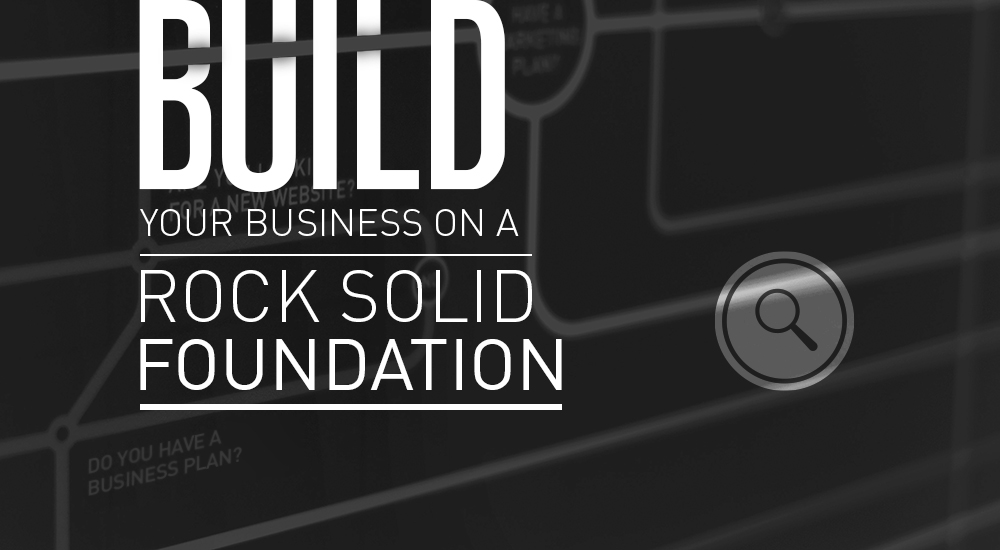
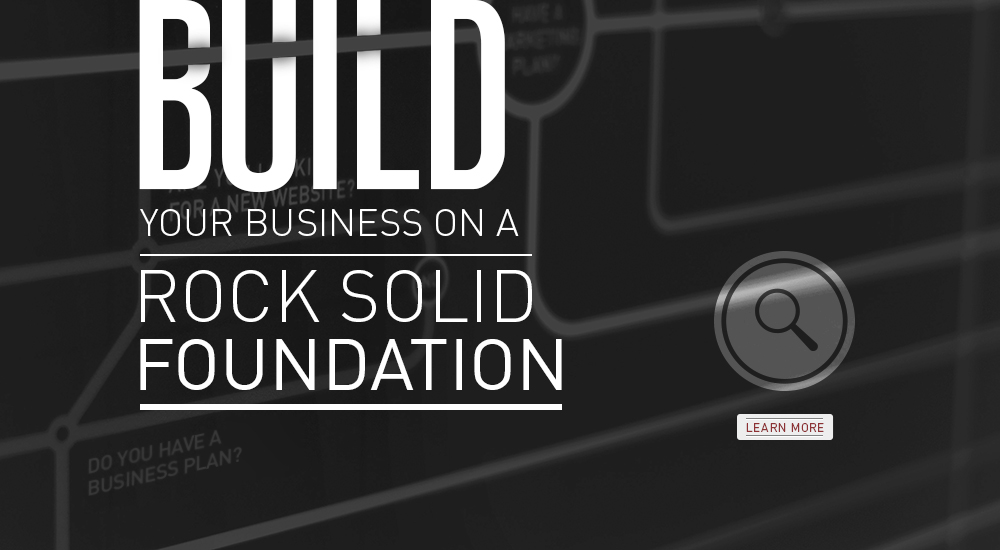
Some updates on the slider -- Finished 1 hour

Changed region(s): [[0.713, 0.7418, 0.837, 0.8036], [0.713, 0.5255, 0.744, 0.5564]]

diff --git a/BusinessonThemeStreet/function.js b/BusinessonThemeStreet/function.js
@@ -76,7 +76,7 @@ $(document).ready(function(){
 							}
 							if ($(".contact-slide").css("width") == "1000px"){
 								$(".contact-slide").css({'left':'1000px'});
-								$(".contact-page-slide").css({'z-index':'4000'});
+								$(".contact-page-slide").css({'z-index':'3000'});
 							}
 						});
 					});
@@ -122,7 +122,7 @@ if (this.id == "activator-2") {
 					}
 					if ($(".contact-slide").css("width") == "1000px"){
 						$(".contact-slide").css({'left':'1000px'});
-						$(".contact-page-slide").css({'z-index':'4000'});
+						$(".contact-page-slide").css({'z-index':'3000'});
 					}
 				});
 			});
@@ -168,7 +168,7 @@ if (this.id == "activator-3") {
 					}
 					if ($(".contact-slide").css("width") == "1000px"){
 						$(".contact-slide").css({'left':'1000px'});
-						$(".contact-page-slide").css({'z-index':'4000'});
+						$(".contact-page-slide").css({'z-index':'3000'});
 					}
 				});
 			});
@@ -214,7 +214,7 @@ if (this.id == "activator-4") {
 					}
 					if ($(".contact-slide").css("width") == "1000px"){
 						$(".contact-slide").css({'left':'1000px'});
-						$(".contact-page-slide").css({'z-index':'4000'});
+						$(".contact-page-slide").css({'z-index':'3000'});
 					}
 				});
 			});
@@ -260,7 +260,7 @@ if (this.id == "activator-5") {
 					}
 					if ($(".contact-slide").css("width") == "1000px"){
 						$(".contact-slide").css({'left':'1000px'});
-						$(".contact-page-slide").css({'z-index':'4000'});
+						$(".contact-page-slide").css({'z-index':'3000'});
 					}
 				});
 			});
@@ -277,6 +277,7 @@ if (this.id == "activator-6") {
 		},200);
 	}
 	else {
+		$(".contact-page-slide").css({'z-index':'4000'});
 		slide.animate({'left':'0px'},200,function(){
 			if ($(".slide-1-div").css("width") == '1000px'){
 				$(".slide-1-div").css({'width':'160px','left':'0px'});

diff --git a/BusinessonThemeStreet/style.css b/BusinessonThemeStreet/style.css
@@ -1687,7 +1687,7 @@ color:#7e1619;
 }
 
 .contact-slide{
-    background: url("images/contact-slider-bg.png");
+    background: url("images/contact-slider-bg.jpg");
     width: 1000px;
     height: 548px;
     left:1000px;

diff --git a/BusinessonThemeStreet/index.php b/BusinessonThemeStreet/index.php
@@ -10,19 +10,19 @@
 				</ul>
 			</div>
 			<div class="slide-div slide-1-div">
-				<img id="active-1" class="slideImg" src="<?php echo get_template_directory_uri(); ?>/images/slide-1-active.jpg">
+				<img id="active-1" name="slide1" class="slideImg" src="<?php echo get_template_directory_uri(); ?>/images/slide-1-active.jpg" onMouseOver="slide1.src='<?php echo get_template_directory_uri(); ?>/images/slide-1-hover.jpg'" onMouseOut="slide1.src='<?php echo get_template_directory_uri(); ?>/images/slide-1-active.jpg'">
 			</div>
 			<div class="slide-div slide-2-div">
-				<img id="active-2" class="slideImg" src="<?php echo get_template_directory_uri(); ?>/images/slide-2-active.jpg">
+				<img id="active-2" name="slide2" class="slideImg" src="<?php echo get_template_directory_uri(); ?>/images/slide-2-active.jpg" onMouseOver="slide2.src='<?php echo get_template_directory_uri(); ?>/images/slide-2-hover.jpg'" onMouseOut="slide2.src='<?php echo get_template_directory_uri(); ?>/images/slide-2-active.jpg'">
 			</div>
 			<div class="slide-div slide-3-div">
-				<img id="active-3" class="slideImg" src="<?php echo get_template_directory_uri(); ?>/images/slide-3-active.jpg">
+				<img id="active-3" name="slide3" class="slideImg" src="<?php echo get_template_directory_uri(); ?>/images/slide-3-active.jpg" onMouseOver="slide3.src='<?php echo get_template_directory_uri(); ?>/images/slide-3-hover.jpg'" onMouseOut="slide3.src='<?php echo get_template_directory_uri(); ?>/images/slide-3-active.jpg'">
 			</div>
 			<div class="slide-div slide-4-div">
-				<img id="active-4" class="slideImg" src="<?php echo get_template_directory_uri(); ?>/images/slide-4-active.jpg">
+				<img id="active-4" name="slide4" class="slideImg" src="<?php echo get_template_directory_uri(); ?>/images/slide-4-active.jpg" onMouseOver="slide4.src='<?php echo get_template_directory_uri(); ?>/images/slide-4-hover.jpg'" onMouseOut="slide4.src='<?php echo get_template_directory_uri(); ?>/images/slide-4-active.jpg'">
 			</div>
 			<div class="slide-div slide-5-div">
-				<img id="active-5" class="slideImg" src="<?php echo get_template_directory_uri(); ?>/images/slide-5-active.jpg">
+				<img id="active-5" name="slide5" class="slideImg" src="<?php echo get_template_directory_uri(); ?>/images/slide-5-active.jpg" onMouseOver="slide5.src='<?php echo get_template_directory_uri(); ?>/images/slide-5-hover.jpg'" onMouseOut="slide5.src='<?php echo get_template_directory_uri(); ?>/images/slide-5-active.jpg'">
 			</div>
 			<div class ="contact-page-slide">
 				<div class="contact-slide">
@@ -82,8 +82,8 @@
 				<img src="<?php echo get_template_directory_uri(); ?>/images/slider-tabs/tab-5.png" class="tab-img">
 				<img src="<?php echo get_template_directory_uri(); ?>/images/slider-tabs/tab-5-active.png" class="tab-hovers">
 			</div>
-			<div id="activator-6" class="slide-overlay">
-				<img class="contact tab-img" src="<?php echo get_template_directory_uri(); ?>/images/slider-tabs/tab-6.png">
+			<div id="activator-6" class="slide-overlay" onMouseOver="contacttab.src='<?php echo get_template_directory_uri(); ?>/images/tab-6-active.png'" onMouseOut="contacttab.src='<?php echo get_template_directory_uri(); ?>/images/slider-tabs/tab-6.png'">
+				<img class="contact tab-img" name="contacttab" src="<?php echo get_template_directory_uri(); ?>/images/slider-tabs/tab-6.png">
 			</div>
 		</div>
 	</div>
